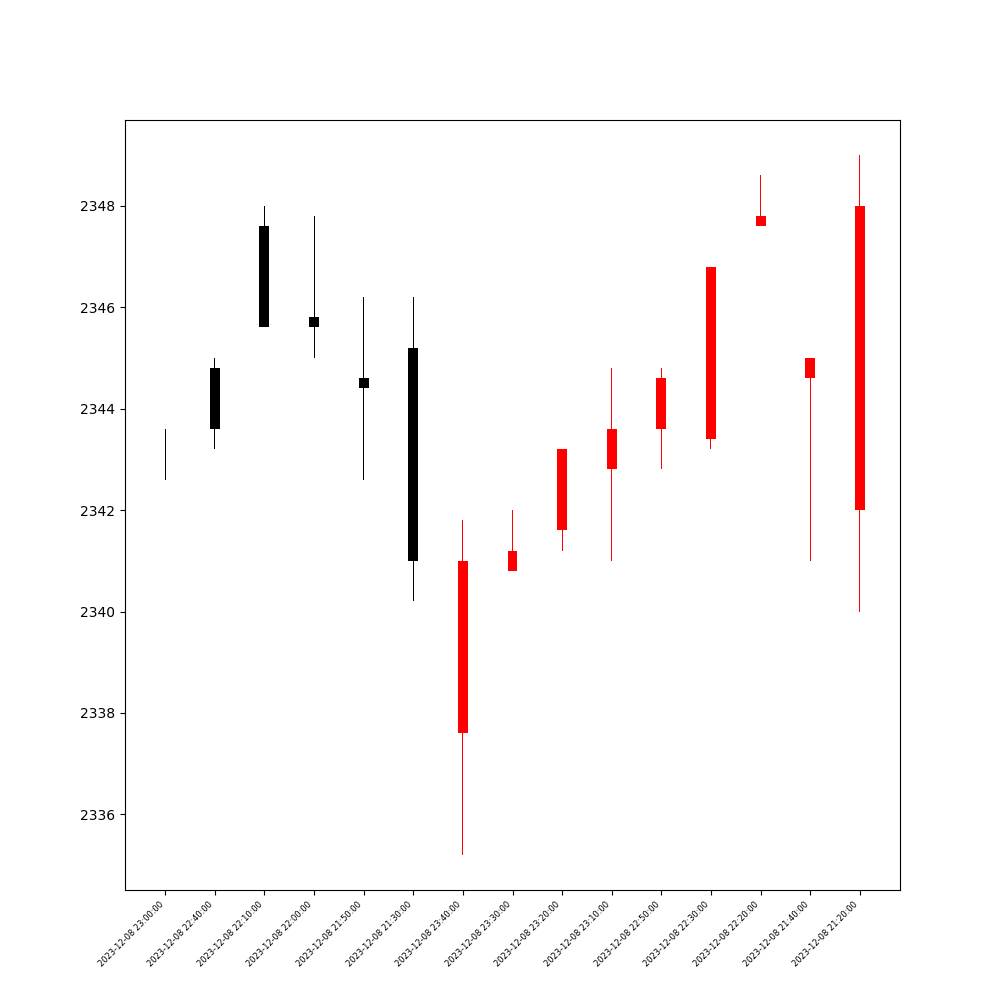
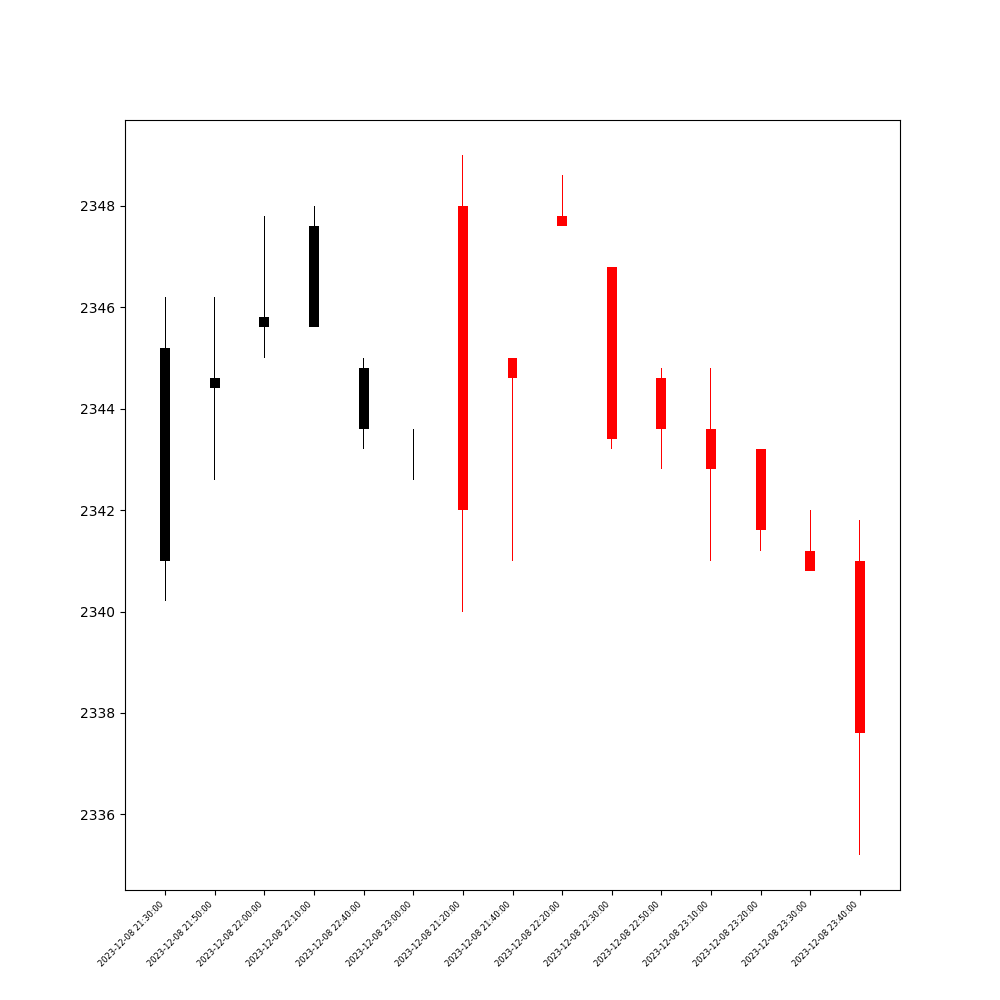
refactor req

diff --git a/templates/account.html b/templates/account.html
@@ -52,7 +52,7 @@
                 <div class="my-2">Фамилия: В сапогах</div>
                 <div class="my-2">Отчество: Мурлыкович</div>
                 <div class="my-2">Документ: Лапы и хвост</div>
-                <div class="my-2">Логин: мррр</div>
+                <div class="my-2">Логин: user</div>
                 <a class="border px-1 rounded-3 mb-3 fs-6" href="https://www.youtube.com/watch?v=wMK_fJjdTpM" style="text-decoration: none; color: black; background-color: rgb(214, 214, 214);">Редактировать</a>
             </div>
         </div>

diff --git a/main.py b/main.py
@@ -23,6 +23,7 @@ db = FDataBase(db)
 @login_manager.user_loader
 def load_user(user_id):
     print("load_user")
+    print(UserLogin().fromDB(user_id, db))
     return UserLogin().fromDB(user_id, db)
 
 
@@ -43,9 +44,10 @@ def index():
 @app.route('/auth', methods=['POST', 'GET'])
 def auth():
     if request.method == 'GET':
+        if current_user.is_authenticated:
+            return redirect('/account')
         return render_template('authorization.html')
     elif request.method == 'POST':
-
         login, password = request.form['login'], request.form['passwd']
         user = db.getUserByLogin(login)
         print(user)
@@ -70,6 +72,7 @@ def registration():
 
 
 @app.route('/account')
+@login_required
 def account():
     data = current_user.getUserData()
     print(data)
@@ -81,11 +84,11 @@ def account():
 def widgets():
     data = datetime.now() - timedelta(days=1)
     data = data.strftime('%Y-%m-%d')
-    yndx = get_data('YNDX', data, 0)[::-1][:15]
-    sber = get_data('SBER', data, 0)[::-1][:15]
-    vtb = get_data('VTBR', data, 0)[::-1][:15]
-    rosn = get_data('ROSN', data, 0)[::-1][:15]
-    gasp = get_data('GASP', data, 0)[::-1][:15]
+    yndx = get_data('YNDX', data, 0)[::-1][:15][::-1]
+    sber = get_data('SBER', data, 0)[::-1][:15][::-1]
+    vtb = get_data('VTBR', data, 0)[::-1][:15][::-1]
+    rosn = get_data('ROSN', data, 0)[::-1][:15][::-1]
+    gasp = get_data('GASP', data, 0)[::-1][:15][::-1]
     for name, act in zip(["yndx", "sber", "vtb", "rosn", "gasp"], [yndx, sber, vtb, rosn, gasp]):
         draw_graf(f'static/img/candle_{name}.png', act)
         draw_graf_value(f'static/img/value_{name}.png', act)

diff --git a/data.py b/data.py
@@ -86,8 +86,8 @@ def get_index():
     return table
 
 
-prices = get_data('YNDX', '2023-12-07', 0)[::-1][:15]
-draw_graf_volume('static/img/tbl3.png', prices)
+# prices = get_data('YNDX', '2023-12-07', 0)[::-1][:15][::-1]
+# draw_graf_volume('static/img/tbl3.png', prices)
 
 # prices = get_data('SBER', '2023-10-10', 0)[:15]
 # draw_graf('static/img/tbl4.png', prices)
